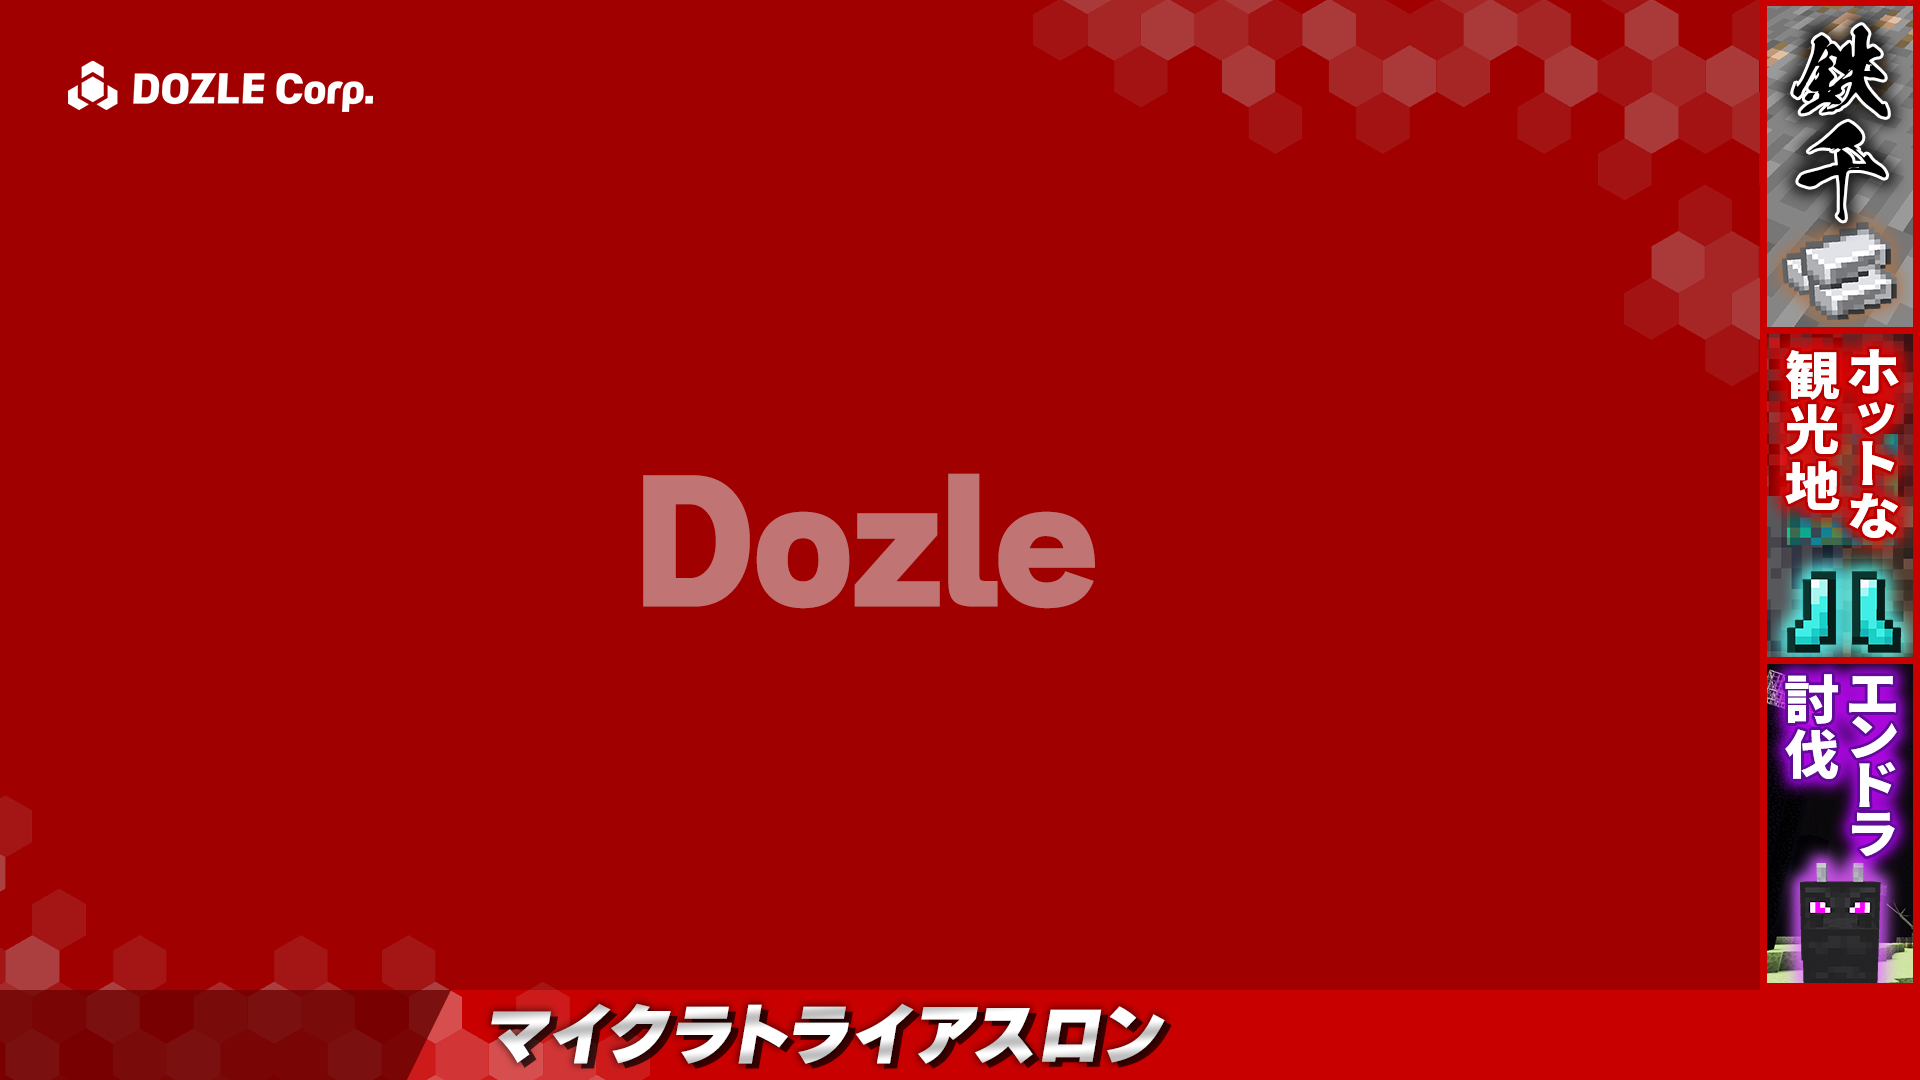
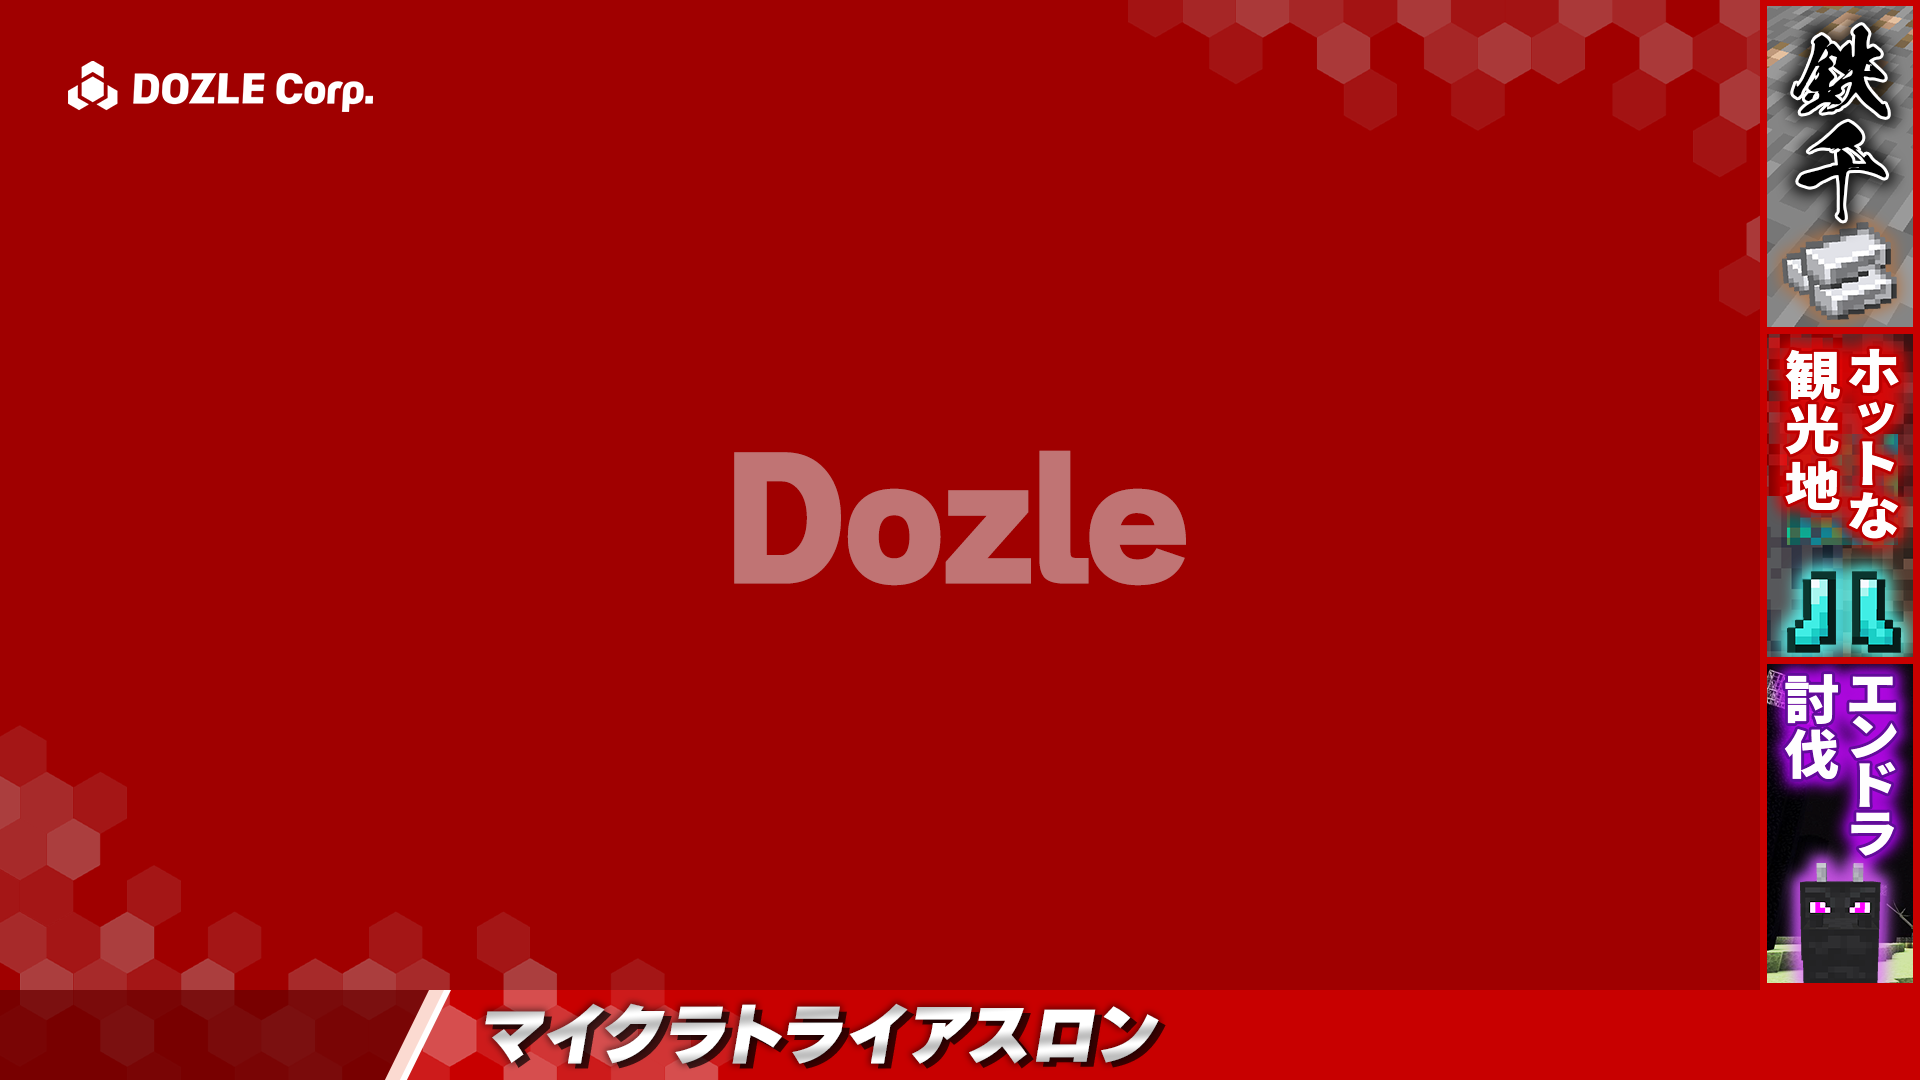
Add files via upload

diff --git a/styles.css b/styles.css
@@ -3,8 +3,6 @@ body {
     font-family: Arial, sans-serif;
     text-align: center;
     margin: 0;
-overflow-x: hidden;
-    overflow-y: hidden;
     display: flex;
     flex-direction: column;
     justify-content: center;
@@ -76,8 +74,8 @@ p{
 
 .try{
     position: absolute; /* 親要素を基準に */
-    top: 996px; 
-    right: 0px; 
-    width: 736px; 
-    height: 76px; 
+    top: 998px; 
+    right: 436px; 
+    width: 327px; 
+    height: 74px; 
 }
